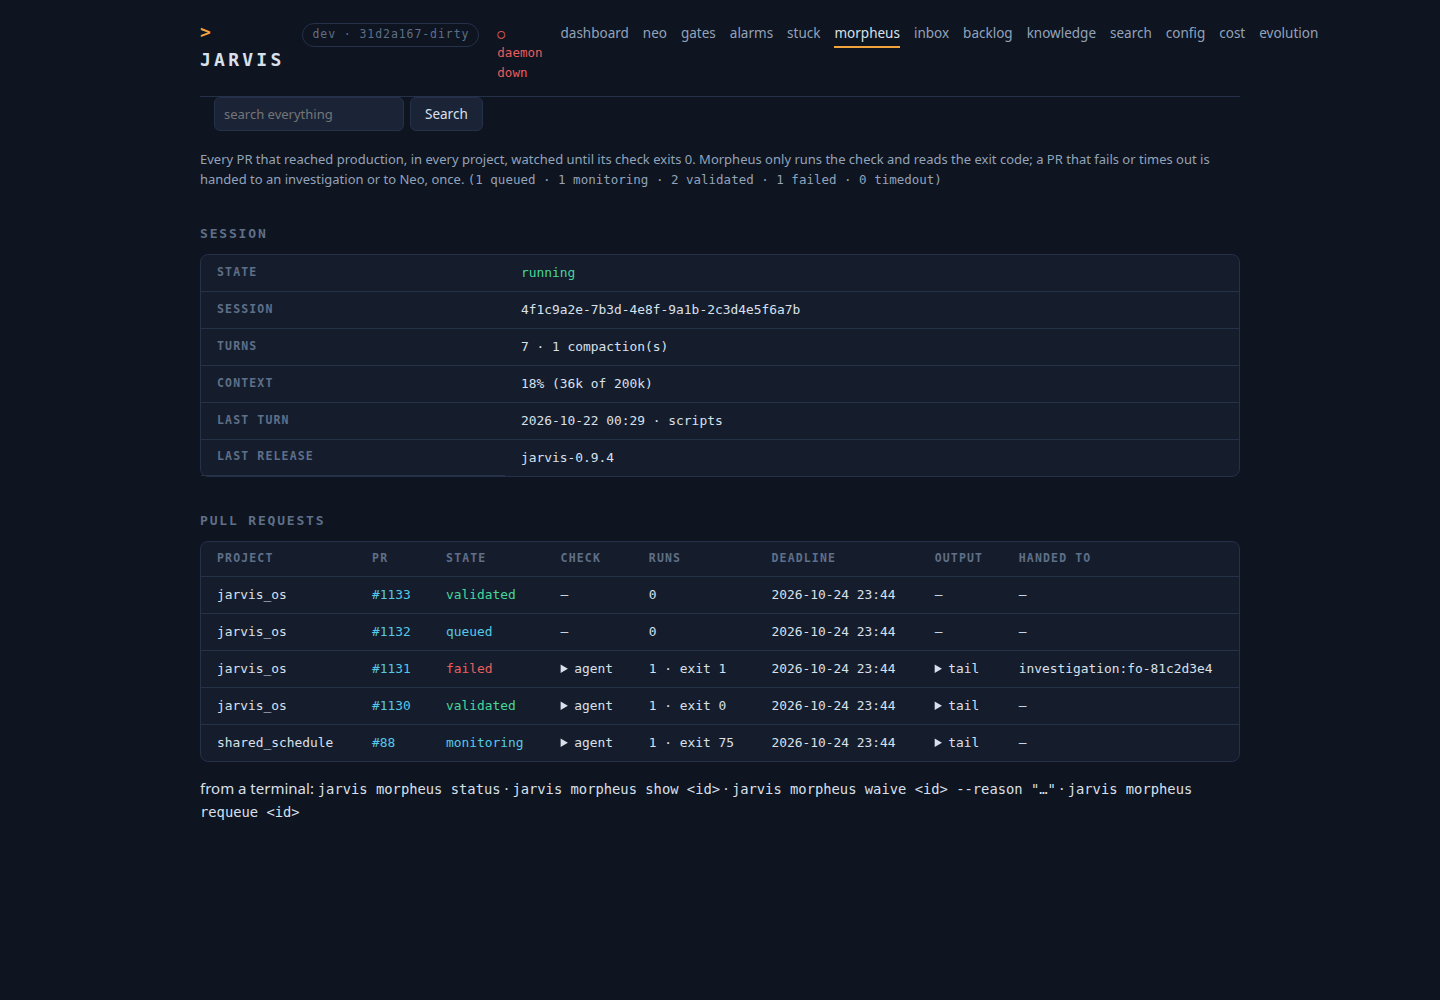
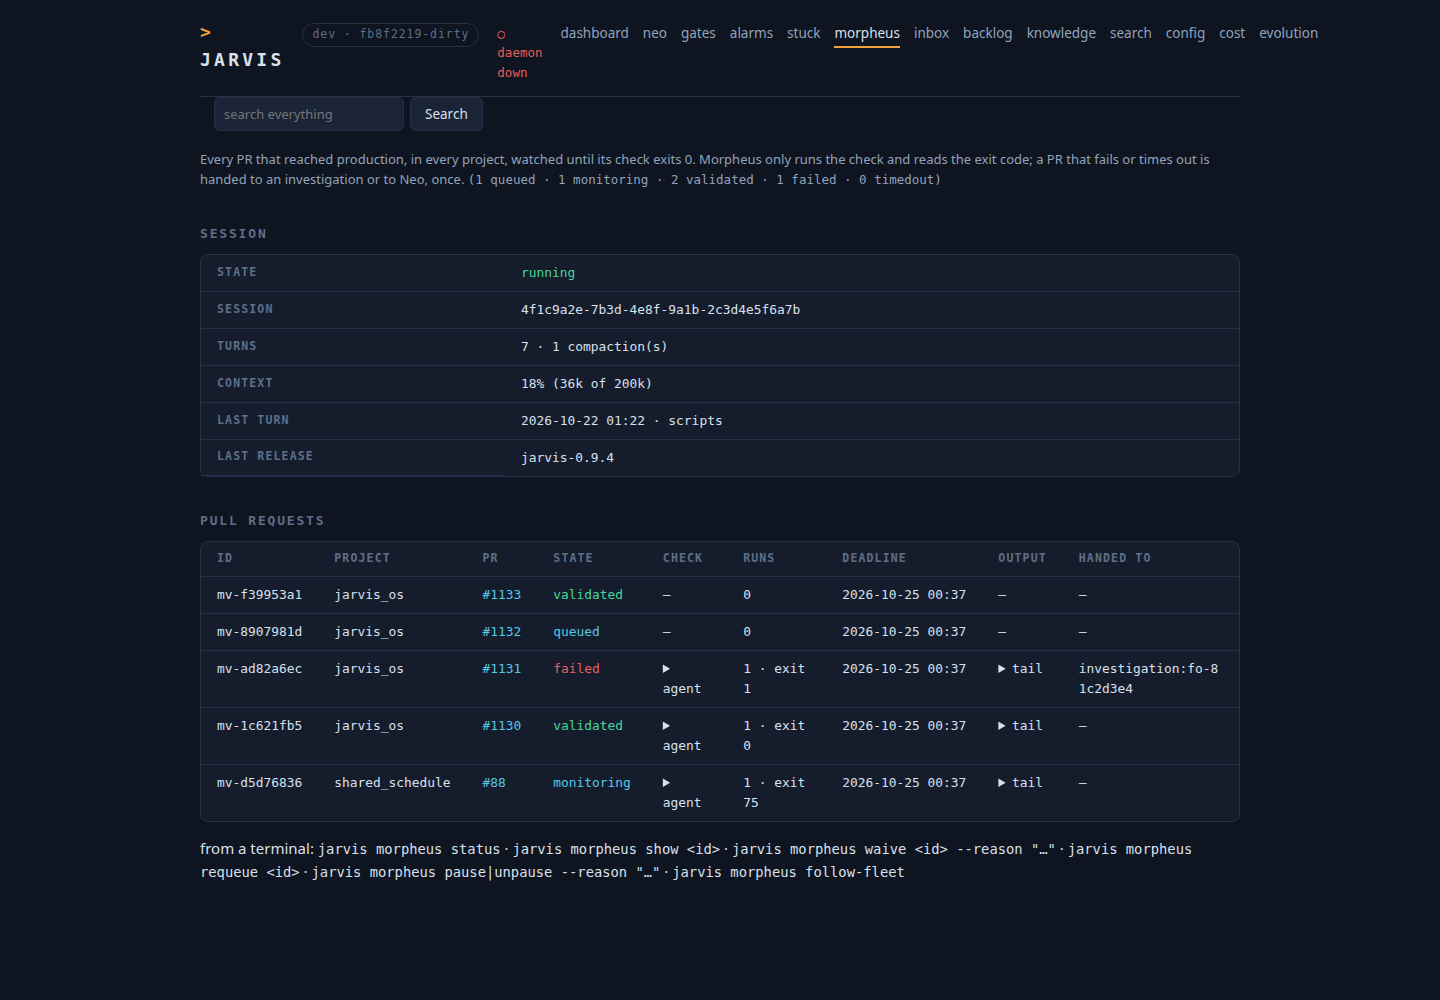
Morpheus: show each item's id, and its own pause/unpause over the fleet's
Claude-Session: https://claude.ai/code/session_01ErCip27oVWyC3bf2FKi7nM

diff --git a/src/jarvis/ui/templates/morpheus.html b/src/jarvis/ui/templates/morpheus.html
@@ -19,7 +19,9 @@
   <table>
     <tr><th>state</th><td class="mono">
       {% if report.enabled == false %}<span class="tone-warn">disabled (os.morpheus.enabled)</span>
-      {% elif report.paused %}<span class="tone-warn">paused — checks still run, no session turns</span>
+      {% elif report.pause.override == "paused" %}<span class="tone-warn">paused by <span class="mono">jarvis morpheus pause</span> — checks still run, no session turns</span>{% if report.pause.reason %} · {{ report.pause.reason }}{% endif %}
+      {% elif report.pause.override == "running" %}<span class="tone-ok">running by <span class="mono">jarvis morpheus unpause</span>{% if report.pause.fleet_paused %}, through the fleet pause{% endif %}</span>{% if report.pause.reason %} · {{ report.pause.reason }}{% endif %}
+      {% elif report.paused %}<span class="tone-warn">paused with the fleet — checks still run, no session turns</span>
       {% else %}<span class="tone-ok">running</span>{% endif %}</td></tr>
     <tr><th>session</th><td class="mono">{{ sess.get('session_id') or "not started" }}</td></tr>
     <tr><th>turns</th><td class="mono">{{ sess.get('turns') or 0 }} · {{ sess.get('compactions') or 0 }} compaction(s)
@@ -37,10 +39,11 @@
 <h2>Pull requests</h2>
 <div class="panel">
   <table>
-    <tr><th>project</th><th>PR</th><th>state</th><th>check</th><th>runs</th>
+    <tr><th>id</th><th>project</th><th>PR</th><th>state</th><th>check</th><th>runs</th>
       <th>deadline</th><th>output</th><th>handed to</th></tr>
     {% for i in report["items"] %}
     <tr id="{{ i.id }}">
+      <td class="mono" style="white-space:nowrap;user-select:all" title="click to select, then copy">{{ i.id }}</td>
       <td class="mono">{{ i.project or "—" }}</td>
       <td class="mono" style="white-space:nowrap"><a href="{{ i.pr_url }}" title="{{ i.pr_title }}">#{{ i.pr_number }}</a></td>
       <td class="mono {{ tone[i.state] }}">{{ i.state }}</td>
@@ -51,7 +54,7 @@
       <td class="mono" style="word-break:break-all">{{ i.action or "—" }}</td>
     </tr>
     {% else %}
-    <tr><td colspan="8" class="empty">nothing queued — a release or a merge fills this</td></tr>
+    <tr><td colspan="9" class="empty">nothing queued — a release or a merge fills this</td></tr>
     {% endfor %}
   </table>
 </div>
@@ -59,6 +62,8 @@
 <p class="sub">from a terminal: <span class="mono">jarvis morpheus status</span> ·
   <span class="mono">jarvis morpheus show &lt;id&gt;</span> ·
   <span class="mono">jarvis morpheus waive &lt;id&gt; --reason "…"</span> ·
-  <span class="mono">jarvis morpheus requeue &lt;id&gt;</span></p>
+  <span class="mono">jarvis morpheus requeue &lt;id&gt;</span> ·
+  <span class="mono">jarvis morpheus pause|unpause --reason "…"</span> ·
+  <span class="mono">jarvis morpheus follow-fleet</span></p>
 
 {% endblock %}

diff --git a/src/jarvis/morpheus.py b/src/jarvis/morpheus.py
@@ -40,6 +40,9 @@ SESSION_KEY = "morpheus.session"
 RELEASE_KEY = "morpheus.last_release"
 #: Per project: the last `pr_merged` event already queued
 MERGE_CURSOR_KEY = "morpheus.merge_cursor.{project}"
+# Morpheus's own brake, over the fleet's: "paused" holds it, "running" lets it through a fleet pause
+PAUSE_KEY = "morpheus.pause"
+PAUSE_MODES = ("paused", "running")
 
 #: How long an item offered to Morpheus waits before it is offered again
 REOFFER_SECONDS = 6 * 3600
@@ -686,6 +689,35 @@ def wake(central: CentralStore, catalog: Catalog, cwd: Path, *, paused: bool = F
     return kind
 
 
+def set_pause(central: CentralStore, mode: str | None, reason: str = "",
+              now: float | None = None) -> dict[str, Any]:
+    """Pin Morpheus paused or running whatever the fleet does; None follows the fleet again"""
+    if mode is None:
+        central.set_state(PAUSE_KEY, "")
+    elif mode in PAUSE_MODES:
+        central.set_state(PAUSE_KEY, json.dumps({
+            "mode": mode, "reason": reason, "since": db.now() if now is None else now}))
+    else:
+        raise ValueError(f"pause mode must be one of {PAUSE_MODES}, not {mode!r}")
+    return pause_state(central)
+
+
+def pause_state(central: CentralStore) -> dict[str, Any]:
+    """Morpheus's override, the fleet's pause, and whether session turns are held"""
+    from . import fleet
+
+    try:
+        pin = json.loads(central.get_state(PAUSE_KEY) or "{}")
+    except ValueError:
+        # A brake that cannot be read is still a brake
+        pin = {"mode": "paused", "reason": "(unreadable morpheus pause record)"}
+    mode = pin.get("mode") if pin.get("mode") in PAUSE_MODES else ""
+    fleet_paused = fleet.load_pause(central) is not None
+    paused = mode == "paused" or (mode != "running" and fleet_paused)
+    return {"paused": paused, "override": mode, "reason": str(pin.get("reason") or ""),
+            "since": pin.get("since"), "fleet_paused": fleet_paused}
+
+
 def _mark_offered(state: dict[str, Any], items: list[dict], now: float) -> None:
     offers = state.setdefault("offers", {})
     for item in items:
@@ -697,13 +729,11 @@ def _mark_offered(state: dict[str, Any], items: list[dict], now: float) -> None:
 
 def report(central: CentralStore, catalog: Catalog | None = None) -> dict[str, Any]:
     """Counts first, then the session, then every item"""
-    from . import fleet
-
     state = session_state(central)
     state.pop("offers", None)
-    paused = fleet.load_pause(central) is not None
+    pause = pause_state(central)
     return {"enabled": bool(catalog.os.morpheus.enabled) if catalog else None,
             "counts": {s: central.morpheus_counts().get(s, 0) for s in STATES},
-            "session": state, "paused": paused,
+            "session": state, "paused": pause["paused"], "pause": pause,
             "last_release": central.get_state(RELEASE_KEY) or "",
             "items": central.morpheus_items()}

diff --git a/src/jarvis/cli.py b/src/jarvis/cli.py
@@ -681,6 +681,14 @@ def build_parser() -> argparse.ArgumentParser:
     m.add_argument("--reason", required=True)
     m = mo.add_parser("requeue", help="watch a settled PR again with a fresh deadline")
     m.add_argument("item_id")
+    m = mo.add_parser("pause", help="hold Morpheus's session turns, whatever the fleet does "
+                                    "(checks still run; they spend nothing)")
+    m.add_argument("--reason", required=True)
+    m = mo.add_parser("unpause", help="let Morpheus's session turns run, even through a "
+                                      "fleet `jarvis pause`")
+    m.add_argument("--reason", required=True)
+    mo.add_parser("follow-fleet", help="drop the pause/unpause pin: Morpheus pauses with "
+                                       "the fleet again")
     for m in mo.choices.values():
         m.add_argument("--json", action="store_true", help="machine-readable output")
 
@@ -3847,7 +3855,7 @@ def cmd_morpheus(args: argparse.Namespace) -> int:
               f" · {sess.get('turns') or 0} turn(s)"
               f" · {sess.get('compactions') or 0} compaction(s)"
               + (f" · context {share:.0%}" if share is not None else "")
-              + (" · PAUSED (no session turns)" if rep["paused"] else "")
+              + f" · {_morpheus_pause_text(rep['pause'])}"
               + (f" · last error: {sess['last_error']}" if sess.get("last_error") else ""))
         for item in rep["items"]:
             print(_morpheus_line(item))
@@ -3900,7 +3908,25 @@ def cmd_morpheus(args: argparse.Namespace) -> int:
         item = ops.morpheus_requeue(args.item_id)
         _print({"id": item["id"], "state": item["state"]}, args.json)
         return 0
+    if args.morpheus_cmd in ("pause", "unpause", "follow-fleet"):
+        mode = {"pause": "paused", "unpause": "running"}.get(args.morpheus_cmd)
+        state = ops.morpheus_pause(mode, getattr(args, "reason", ""))
+        if args.json:
+            _print(state, True)
+        else:
+            print(_morpheus_pause_text(state))
+        return 0
     return 1
+
+
+def _morpheus_pause_text(pause: dict) -> str:
+    fleet = "fleet paused" if pause["fleet_paused"] else "fleet running"
+    if pause["override"] == "paused":
+        return f"PAUSED by `morpheus pause` ({fleet}): {pause['reason']}"
+    if pause["override"] == "running":
+        return f"RUNNING by `morpheus unpause` ({fleet}): {pause['reason']}"
+    return ("PAUSED with the fleet (no session turns)" if pause["paused"]
+            else "running (follows the fleet pause)")
 
 
 def cmd_investigate(args: argparse.Namespace) -> int:

diff --git a/tests/test_morpheus.py b/tests/test_morpheus.py
@@ -653,3 +653,53 @@ def test_the_dashboard_shows_a_link_not_the_pr_s_text(central):
         in page.text
     assert "proj_a" in page.text and "failed" in page.text
     assert item["resolution"] not in page.text and "Watch the dashboard" not in page.text
+
+
+def test_morpheus_unpause_runs_its_session_through_a_fleet_pause(central):
+    from jarvis import fleet
+
+    fleet.pause(central, "token burn", now=TEST_EPOCH)
+    assert morpheus.pause_state(central)["paused"] is True
+    state = morpheus.set_pause(central, "running", "validate 0.12.5", now=TEST_EPOCH)
+    assert state["paused"] is False and state["fleet_paused"] is True
+    assert morpheus.report(central)["paused"] is False
+    assert morpheus.set_pause(central, None)["paused"] is True
+
+
+def test_morpheus_pause_holds_it_while_the_fleet_runs(central):
+    state = morpheus.set_pause(central, "paused", "noisy checks", now=TEST_EPOCH)
+    assert state == {"paused": True, "override": "paused", "reason": "noisy checks",
+                     "since": TEST_EPOCH, "fleet_paused": False}
+    assert morpheus.set_pause(central, None)["paused"] is False
+    with pytest.raises(ValueError):
+        morpheus.set_pause(central, "maybe")
+
+
+def test_an_unreadable_morpheus_pause_is_still_a_brake(central):
+    central.set_state(morpheus.PAUSE_KEY, "{not json")
+    assert morpheus.pause_state(central)["paused"] is True
+
+
+def test_the_cli_pins_and_releases_the_morpheus_pause(central, capsys):
+    from jarvis import fleet
+    from jarvis.cli import main
+
+    fleet.pause(central, "token burn", now=TEST_EPOCH)
+    assert main(["morpheus", "unpause", "--reason", "validate the release"]) == 0
+    assert "RUNNING by `morpheus unpause` (fleet paused)" in capsys.readouterr().out
+    assert main(["morpheus", "status"]) == 0
+    assert "RUNNING by `morpheus unpause`" in capsys.readouterr().out
+    assert main(["morpheus", "follow-fleet"]) == 0
+    assert "PAUSED with the fleet" in capsys.readouterr().out
+
+
+def test_the_dashboard_shows_each_item_s_id_to_copy(central):
+    from fastapi.testclient import TestClient
+
+    from jarvis.ui.app import create_app
+
+    item = _failed(central)
+    morpheus.set_pause(central, "running", "validate the release", now=TEST_EPOCH)
+    page = TestClient(create_app()).get("/morpheus")
+    assert f'title="click to select, then copy">{item["id"]}</td>' in page.text
+    assert "jarvis morpheus unpause" in page.text and "validate the release" in page.text

diff --git a/src/jarvis/daemon.py b/src/jarvis/daemon.py
@@ -2802,7 +2802,7 @@ class Daemon:
 
     def _morpheus_pass(self) -> None:
         """Queue what reached production, run due scripts, hand off verdicts, then wake the session"""
-        from . import fleet, morpheus
+        from . import morpheus
         from .paths import production_code_dir
 
         central = CentralStore()  # thread-local
@@ -2844,7 +2844,7 @@ class Daemon:
             # The session lives in the OS project's checkout; each batch adds the projects it touches
             home = next((p.path for p in self.catalog.projects if p.name == os_name), fallback)
             morpheus.wake(central, self.catalog, home, dirs=dirs,
-                          paused=fleet.load_pause(central) is not None)
+                          paused=morpheus.pause_state(central)["paused"])
         except Exception:  # noqa: BLE001 — the loop must survive anything
             log.exception("morpheus pass failed")
         finally:

diff --git a/src/jarvis/ops.py b/src/jarvis/ops.py
@@ -12858,6 +12858,17 @@ def morpheus_waive(item_id: str, reason: str) -> dict[str, Any]:
         central.close()
 
 
+def morpheus_pause(mode: str | None, reason: str = "") -> dict[str, Any]:
+    """Pin Morpheus's session paused or running whatever the fleet does; None follows the fleet"""
+    from . import morpheus
+
+    central = CentralStore()
+    try:
+        return morpheus.set_pause(central, mode, reason)
+    finally:
+        central.close()
+
+
 def morpheus_requeue(item_id: str) -> dict[str, Any]:
     from . import morpheus
 

diff --git a/docs/superpowers/specs/2026-10-21-morpheus-validates-releases-in-production.md b/docs/superpowers/specs/2026-10-21-morpheus-validates-releases-in-production.md
@@ -57,6 +57,9 @@ Each item has a state:
    * After a turn, if the session's context exceeds `compact_at` (default 30%) of its
      window, the next turn is `/compact`.
    * Its turns respect `jarvis pause`; the mechanical halves spend nothing and do not.
+     Morpheus has its own pin over that (`os_state['morpheus.pause']`): `jarvis morpheus
+     pause` holds it while the fleet runs, `jarvis morpheus unpause` runs it through a
+     fleet pause, and `jarvis morpheus follow-fleet` drops the pin.
 
 The daemon has no conversation context, so monitoring does not grow anything. It is
 Python running the checks and reading rows. The session only ever sees "write checks for
@@ -96,9 +99,9 @@ nothing.
 
 ## Surfaces
 
-* `jarvis morpheus status|show|add|enqueue-release|script|check|waive|requeue`
+* `jarvis morpheus status|show|add|enqueue-release|script|check|waive|requeue|pause|unpause|follow-fleet`
 * `/morpheus`: the session (id, context %, turns, compactions, paused) and every item.
-  Each item shows its project, the PR as a link, its state, the check, the exit code,
+  Each item shows its id (one click selects it for the CLI), its project, the PR as a link, its state, the check, the exit code,
   the output tail and who it was handed to.
 * `INV-MORPHEUS-OVERDUE` (OS invariant). It fires when an item is open past its
   deadline, or when a failed/timed-out item has no hand-off.

diff --git a/CLAUDE.md b/CLAUDE.md
@@ -63,6 +63,7 @@ jarvis io cancel <id>                      # filed orders from accepted findings
 jarvis investigate <wo-id|fo-id|io-id> --why "what you saw"   # read-only; settles itself; a GAP files an issue, dispatches nothing
 jarvis investigate list / show <inv-id> / cancel <inv-id>
 jarvis morpheus status / show <mv-id> / waive <mv-id> --reason "…" / requeue <mv-id>   # shipped PRs validated in production
+jarvis morpheus pause|unpause --reason "…" / follow-fleet   # Morpheus's own brake; unpause runs it through a fleet pause
 jarvis backlog promote <id> --as feature   # intake -> feature order
 jarvis backlog list / add <project> "title" [--depends-on id] / promote <id> [--force]
 jarvis wo list [project] / show <id> / send <id> "msg" / cancel <id>

diff --git a/docs/os/operator/records.md b/docs/os/operator/records.md
@@ -71,6 +71,10 @@ Morpheus validates every PR that reaches production, in every project.
   investigation (or to Neo), and `timedout` (3 days by default) to Neo.
 * **The two commands.** `waive` is the user ruling a PR fine. `requeue` watches it again
   with a fresh deadline.
+* **Its own brake.** By default Morpheus's session pauses with the fleet's `jarvis pause`.
+  `jarvis morpheus pause --reason "…"` holds it while the fleet runs. `jarvis morpheus
+  unpause --reason "…"` lets it run even through a fleet pause. `jarvis morpheus
+  follow-fleet` drops either pin. Checks run either way; they spend nothing.
 
 Dashboard: `/morpheus`. Spec:
 docs/superpowers/specs/2026-10-21-morpheus-validates-releases-in-production.md.
